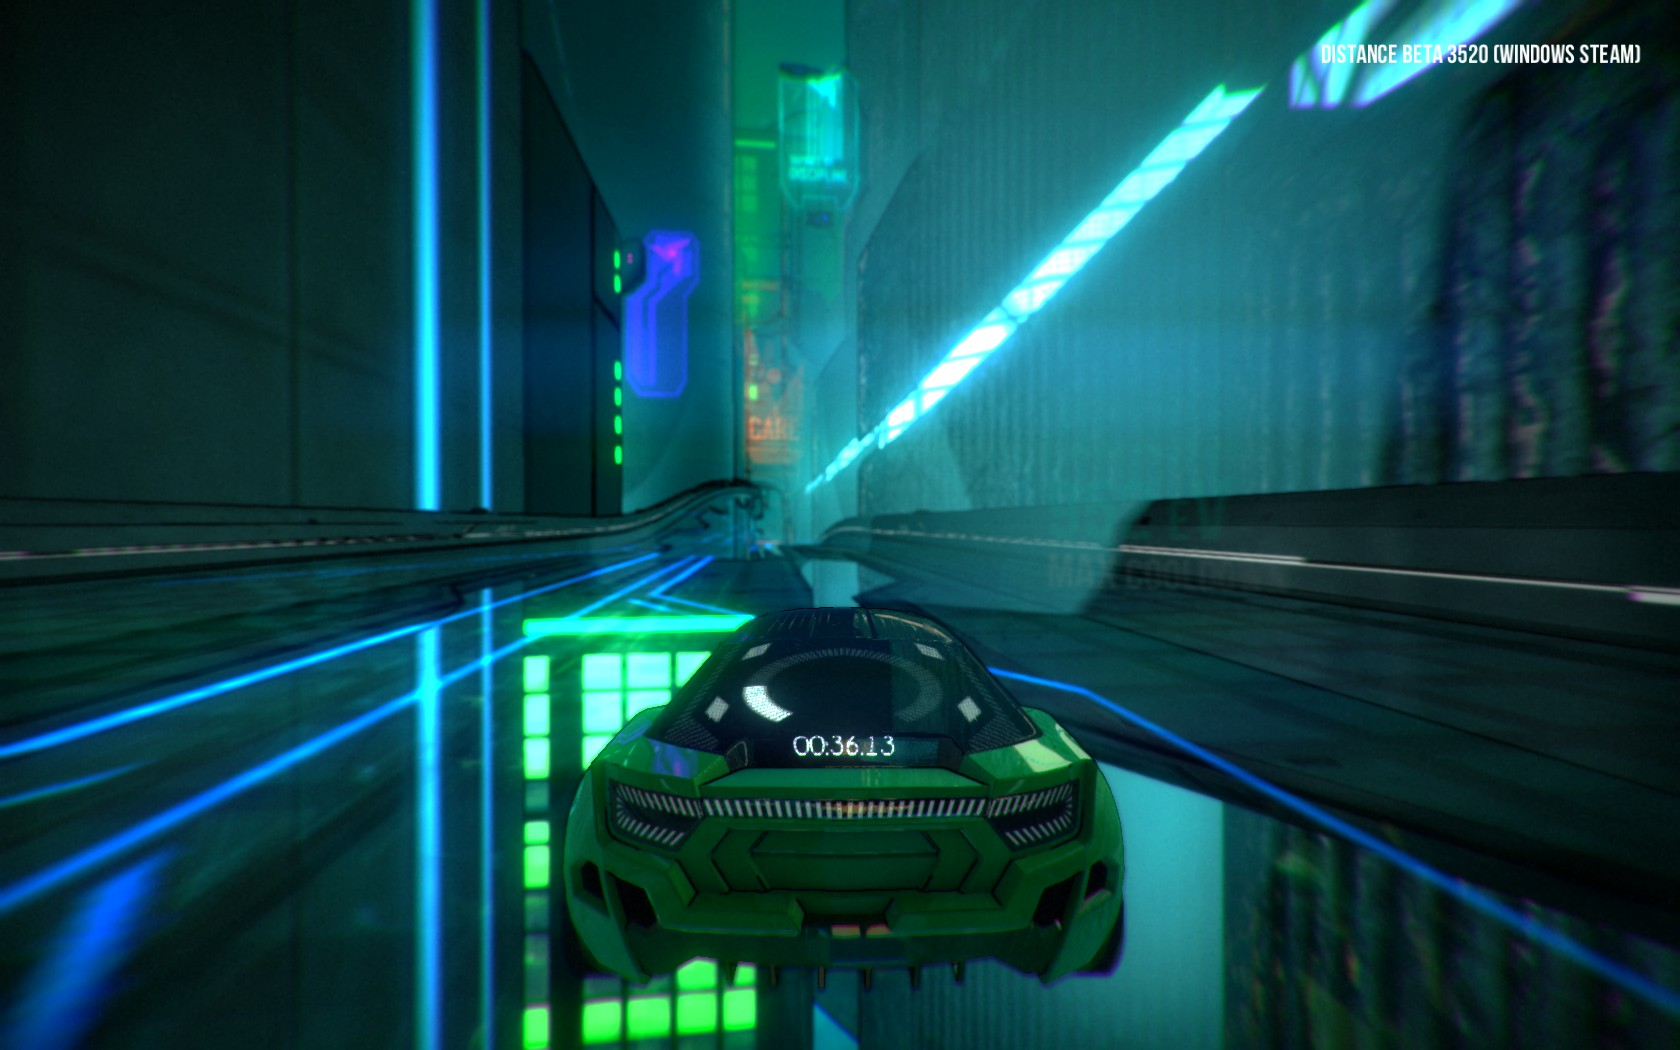
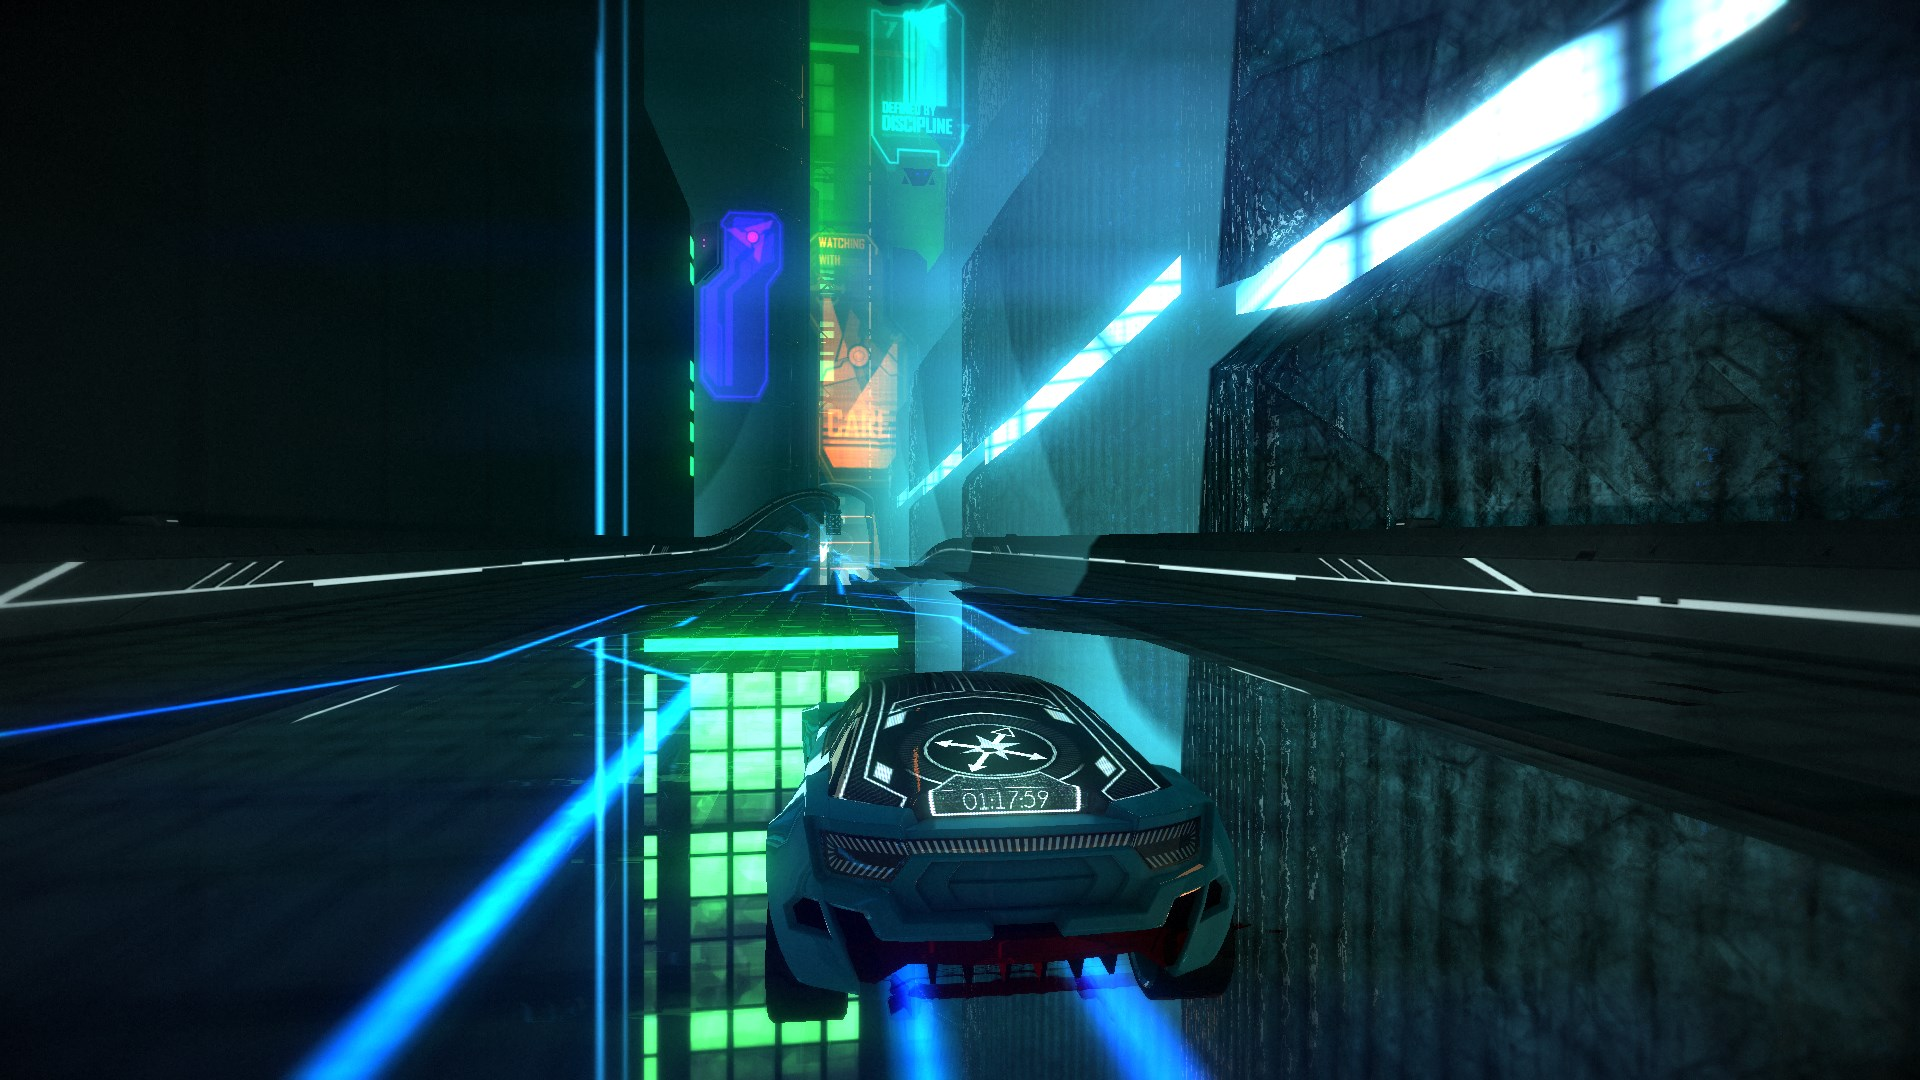
Prettier pictures
updated the screenshots to higher resolution with no watermark

diff --git a/index.html b/index.html
@@ -180,7 +180,7 @@
 			</p>
 
 			<div class="big-image">
-				<img src="images/screenshots/247.jpg">
+				<img src="images/screenshots/bs.jpg">
 				<b>Broken Symmetry</b> (official level)
 			</div>
 
